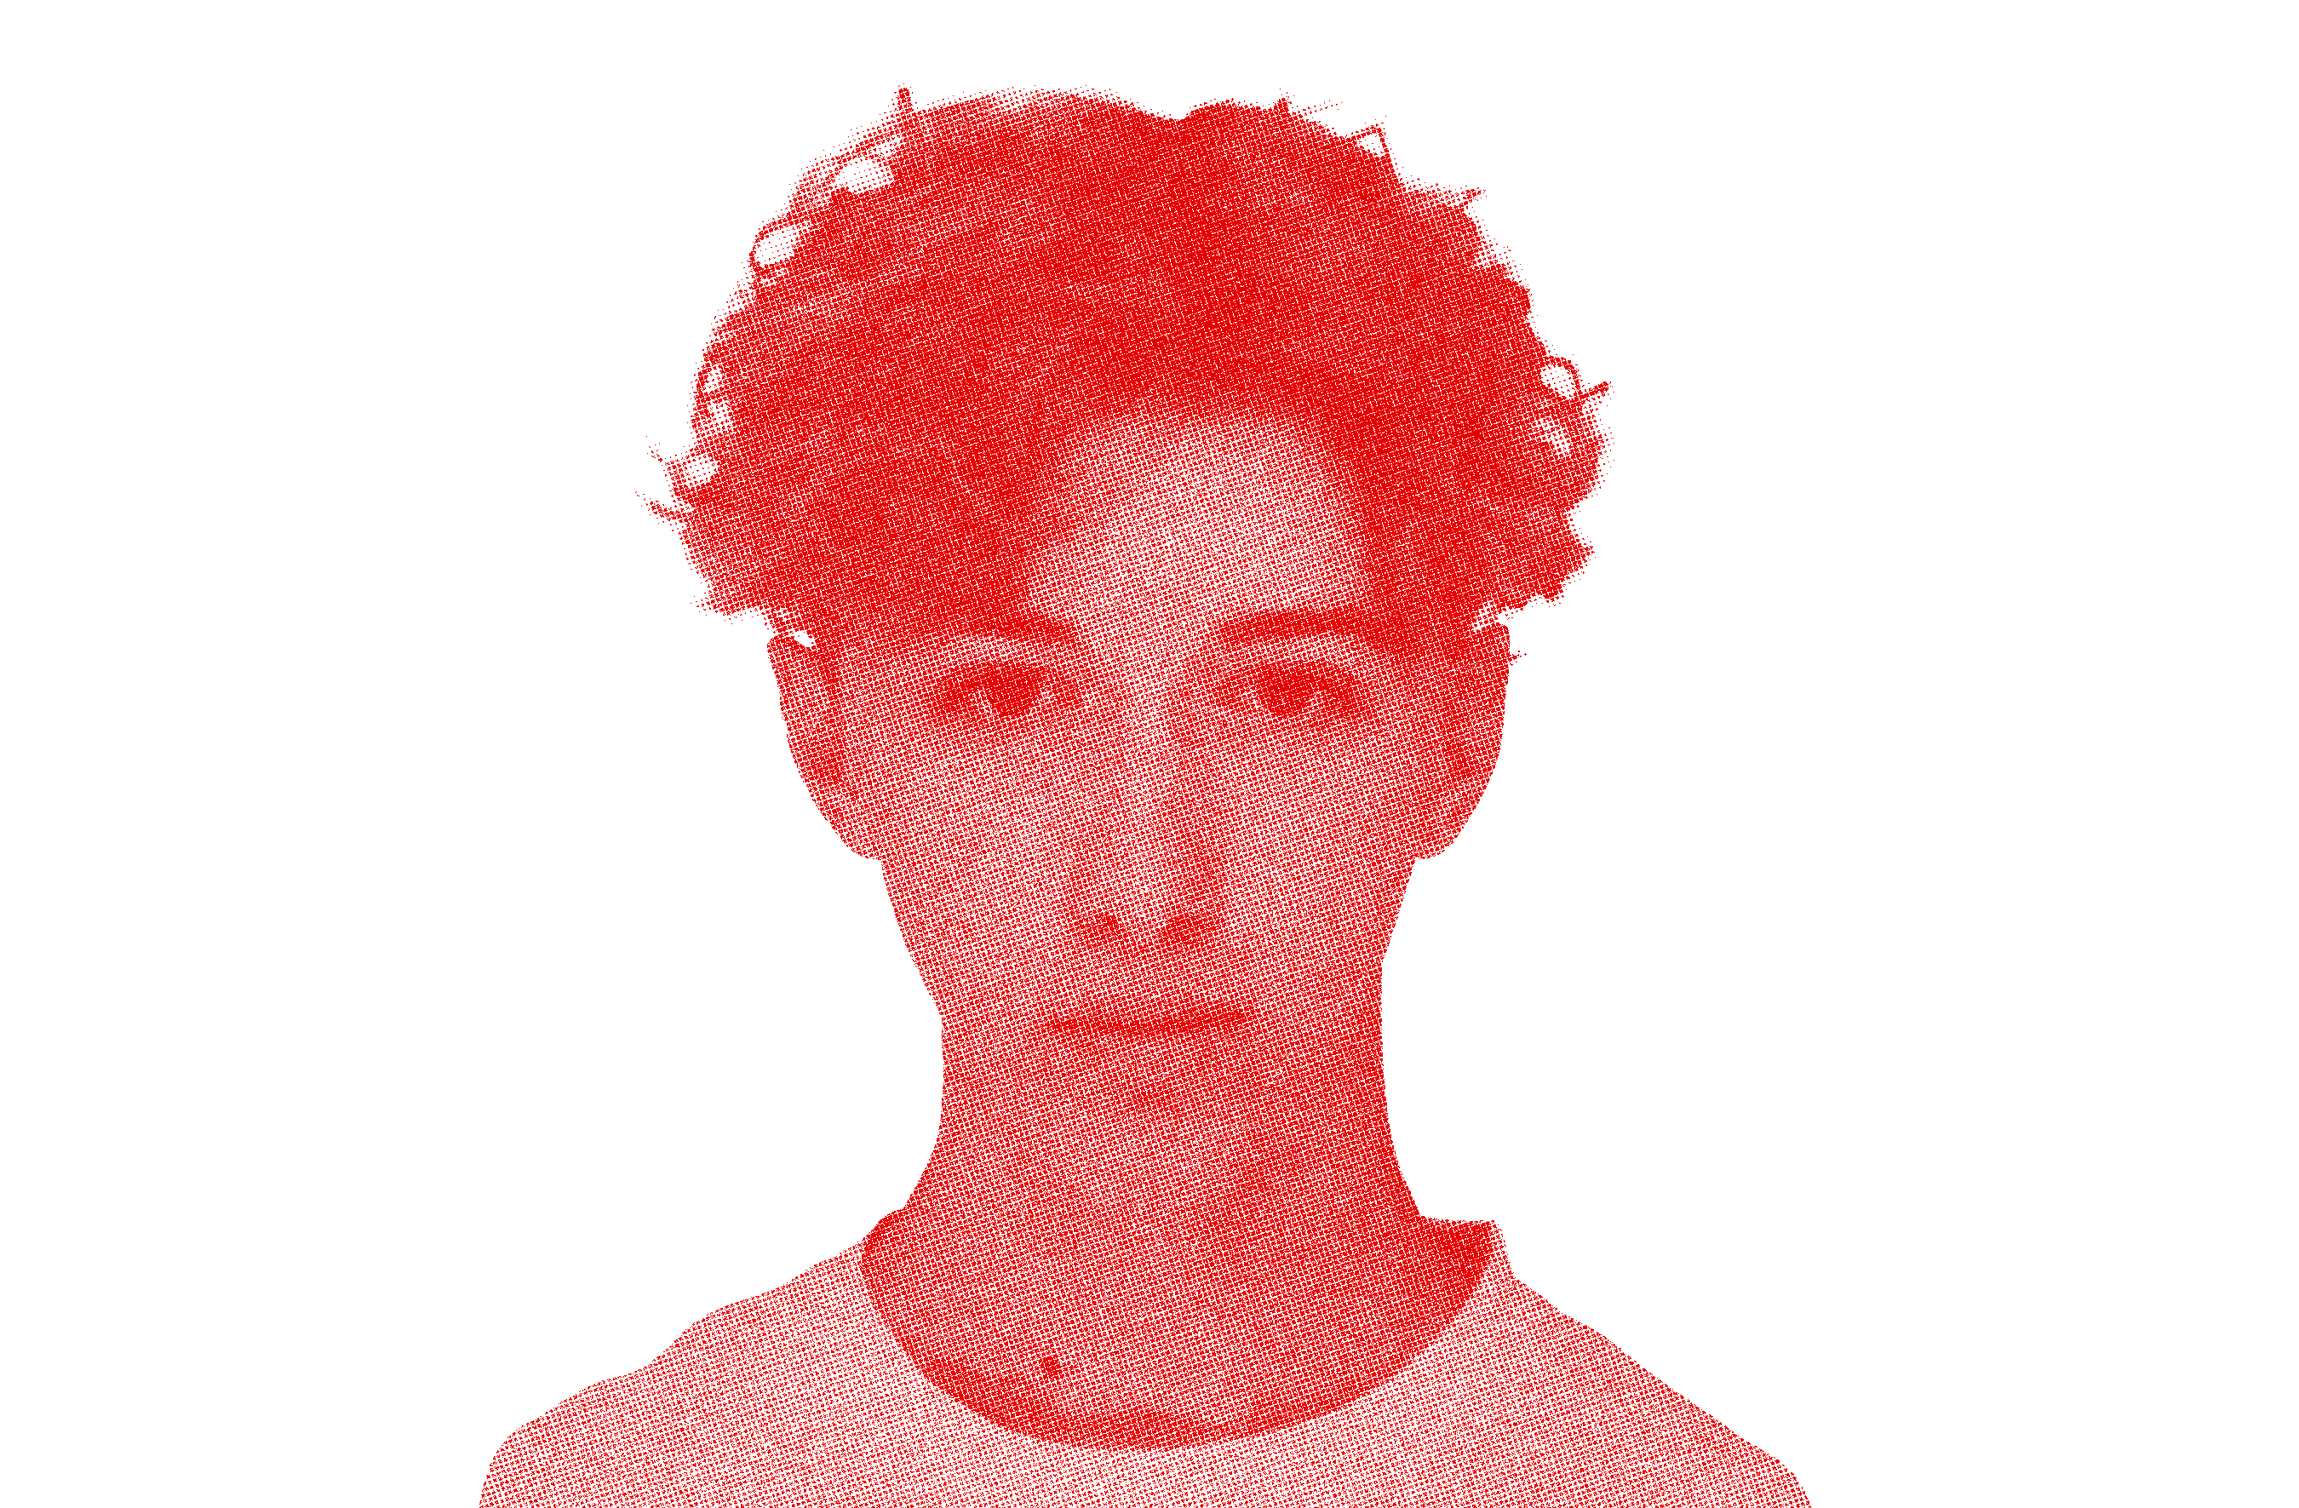
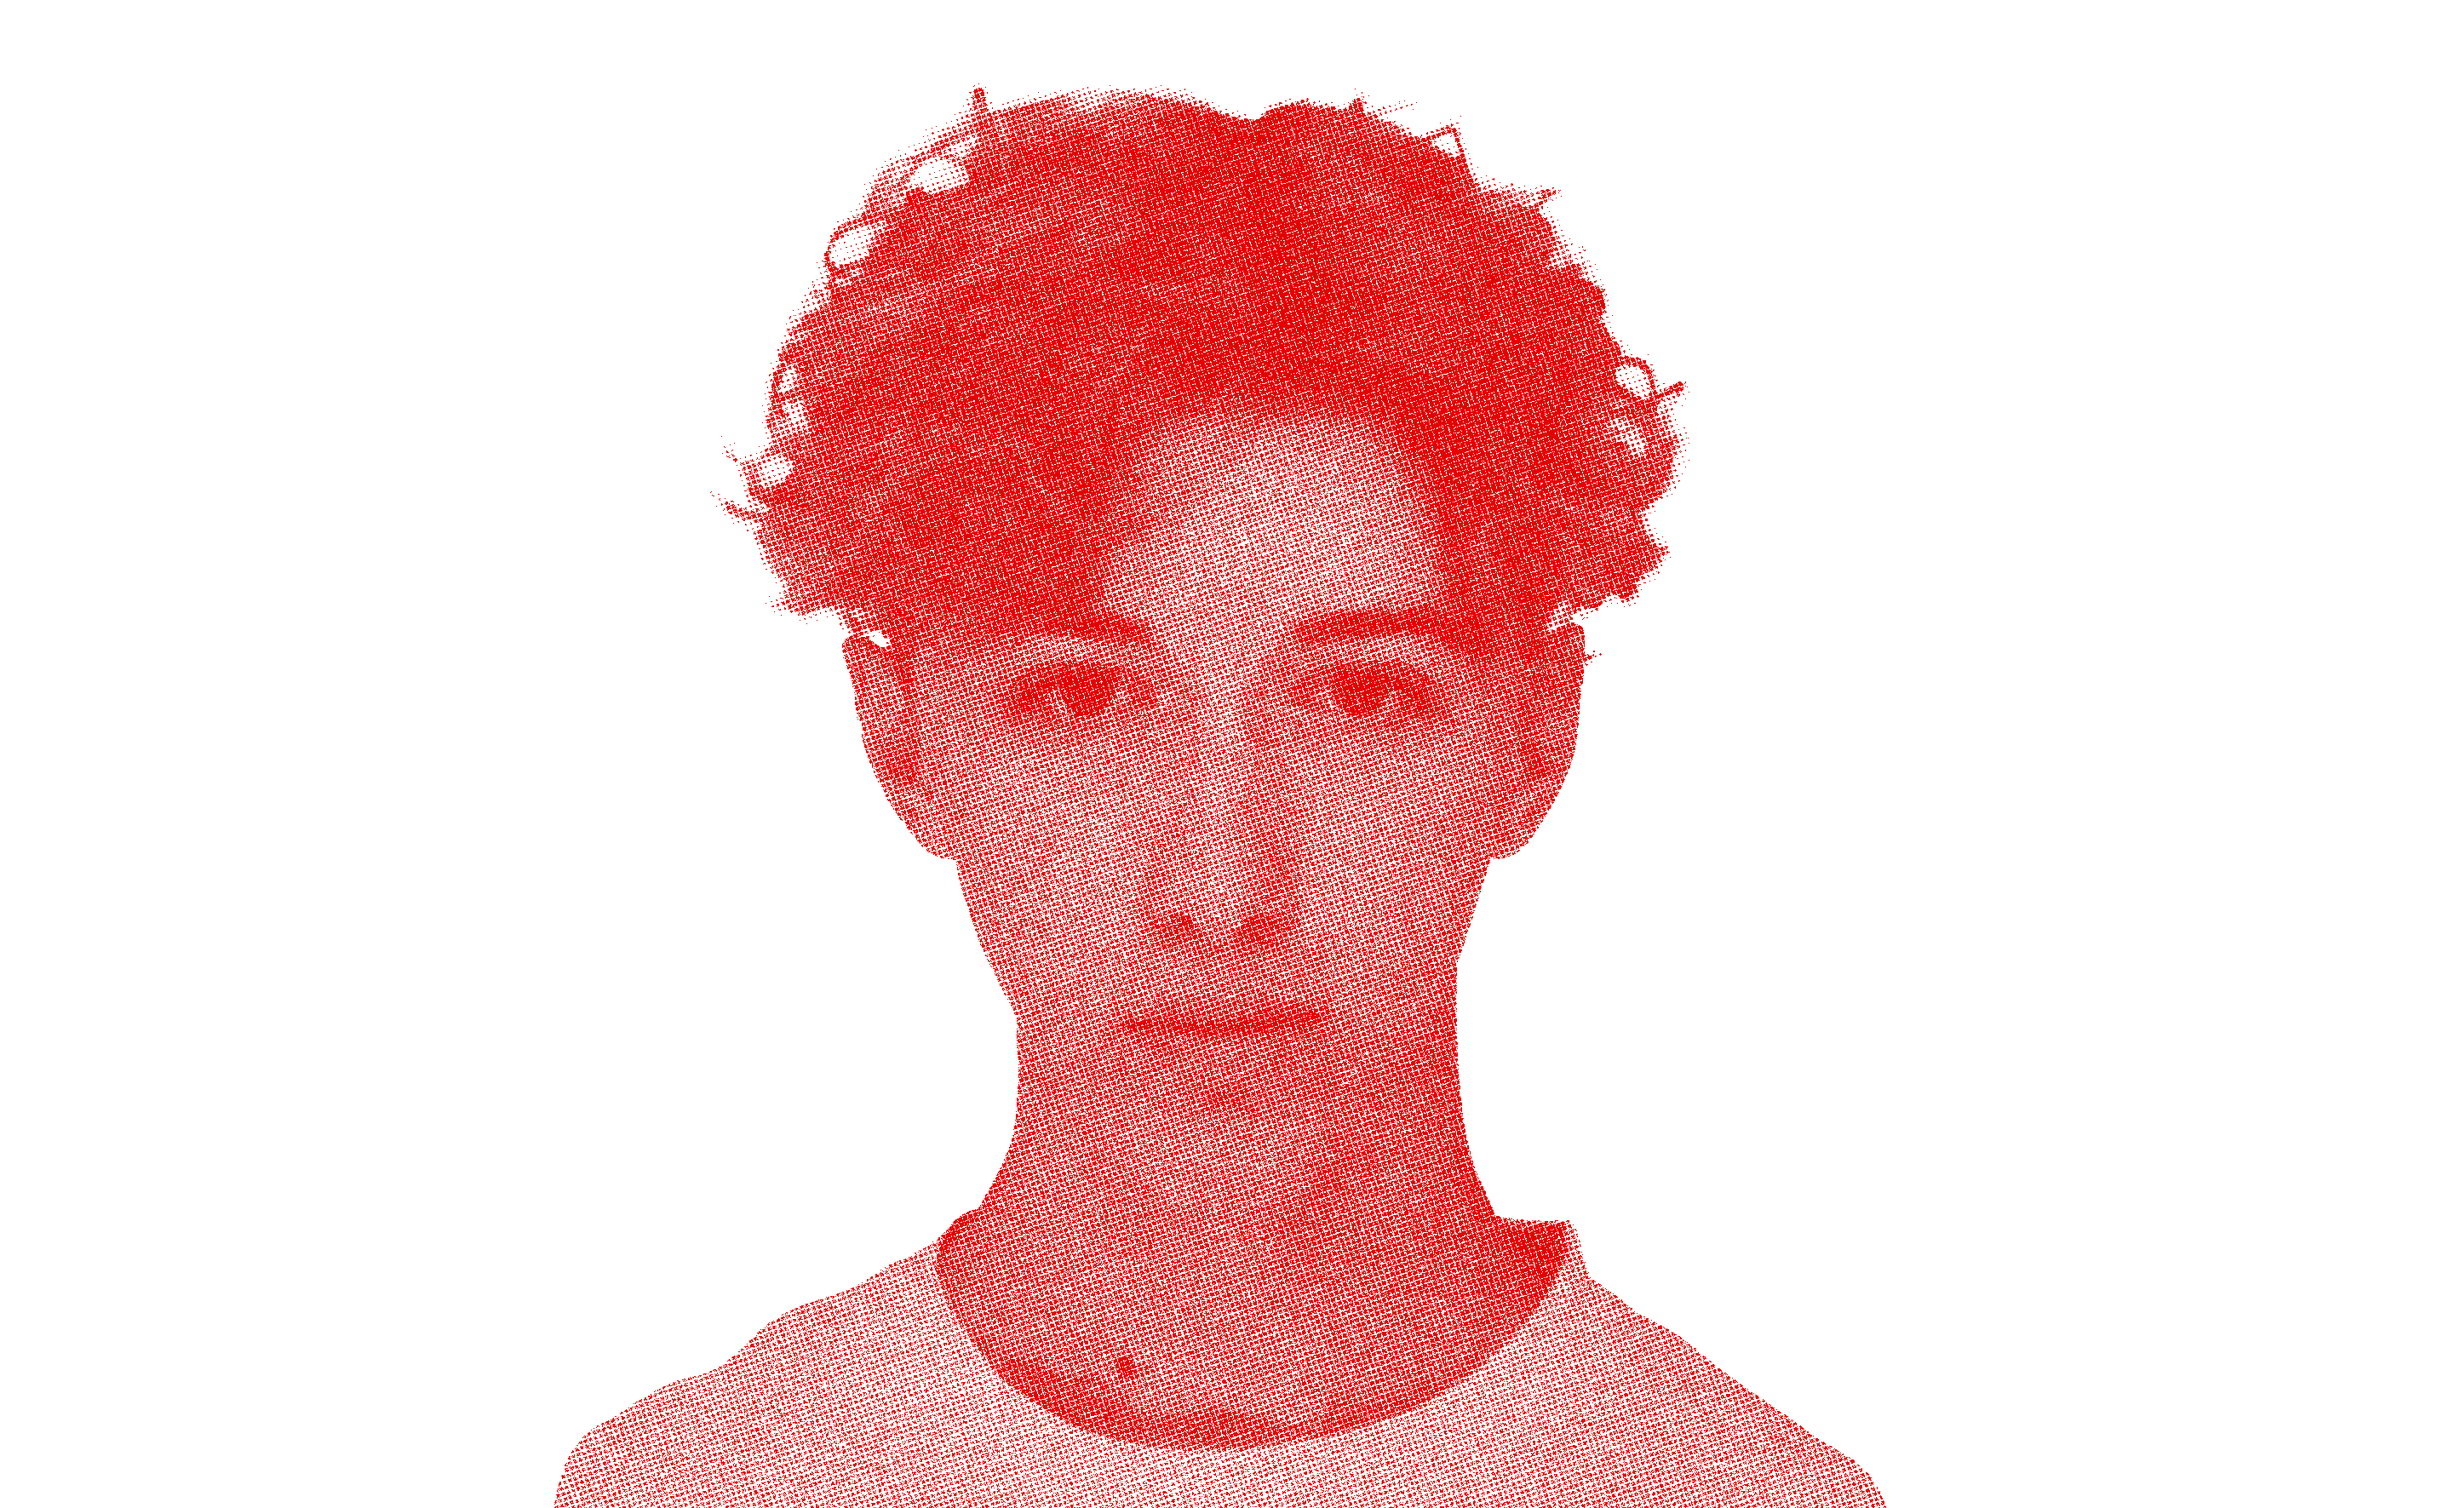
DISPOSITION GRILLE
Problème de sauts de lignes de la grille résolu.

Changed region(s): [[0.2178, 0.0621, 0.8089, 1.0]]

diff --git a/a-propos.html b/a-propos.html
@@ -24,7 +24,9 @@
   </header>
   <div class="about">
     <h1>À PROPOS.</h1>
-    <div><img class="guy-about" src="bonhomme/bonhomme-a-propos.svg" alt="orange avec des jumelles"></div>
+    <div class="guy-about">
+      <img src="bonhomme/bonhomme-a-propos.svg" alt="orange avec des jumelles">
+    </div>
     <div class="about-infos">
       <div class="infos">
         <h2>Gaëtan Faucher</h2>
@@ -32,11 +34,9 @@
           Je recherche un stage étudiant de 2 à 3 mois entre le 9 mai et le 26 juillet 2023.</p>
       </div>
       <div class="profil">
-        <img class="head" src="IMG/A-PROPOS/photo-profil-bitmap-red.png" alt="Photo de profil.">
+        <img class="tete" src="IMG/A-PROPOS/photo-profil-bitmap-red.png" alt="Photo de profil.">
       </div>
     </div>
-    <b></b>
-    <b></b>
     <div class="infos-details">
       <div class="formations">
         <h2>Formations</h2>
@@ -59,7 +59,7 @@
     </div>
     <div class="infos-details">
       <div class="competences">
-        <h2 class="preserve" >Compétences</h2>
+        <h2 class="preserve">Compétences</h2>
         <p class="preserve">- Illustrator/Photoshop/Procreate, <br> L’utilisation de ces logiciels depuis la première
           année de ma
           formation STD2A m’a permis d’acquérir une très bonne maîtrise des outils et techniques de conception.</p>

diff --git a/style.css b/style.css
@@ -243,6 +243,7 @@ ul {
     grid-gap: 20px;
     grid-template-columns: 1fr 1fr;
     grid-column: 1/5;
+    align-content: center;
 }
 
 div.intro {
@@ -269,7 +270,6 @@ div.notice {
     grid-template-columns: 1fr 1fr 1fr 1fr 1fr 1fr;
     grid-gap: 20px;
     margin: 40px;
-    object-fit: cover;
 }
 
 .vac1 {
@@ -305,23 +305,14 @@ img {
 }
 
 .guy-about {
-    grid-row: span 2;
-}
-
-.infos {
-    grid-column: 1/2;
+    grid-column: 6/7;
+    grid-row: 1/3;
 }
 
 .profil {
     display: block;
-    padding: 10px 10px 0px 10px;
     border-radius: 20px;
     background-color: #ff7b00;
-
-}
-
-.head {
-    position: sticky;
 }
 
 .mur {
